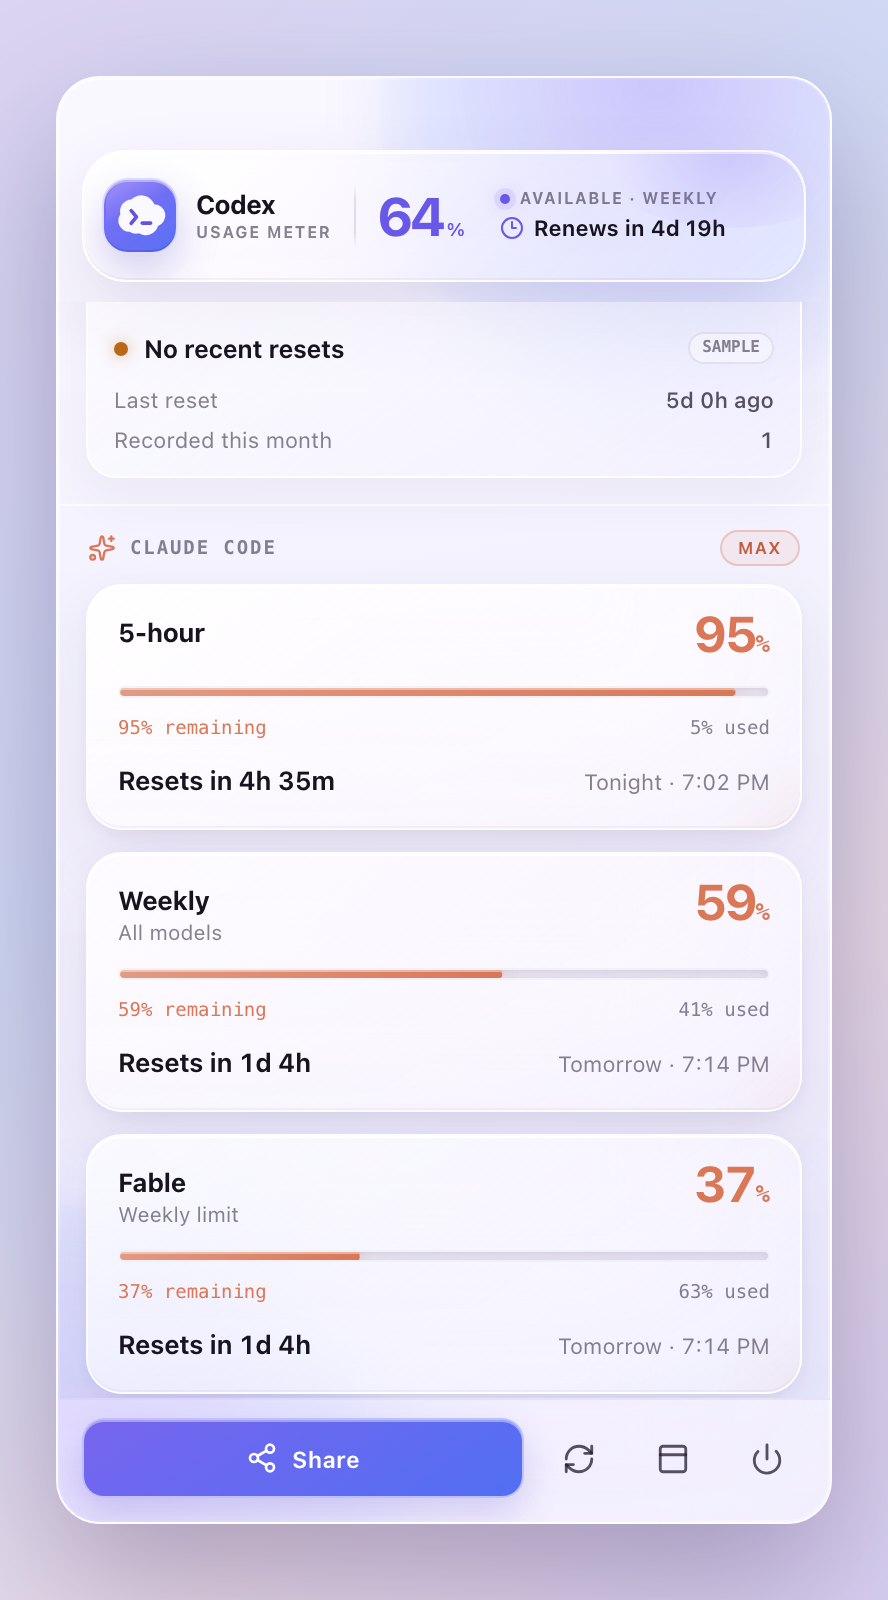
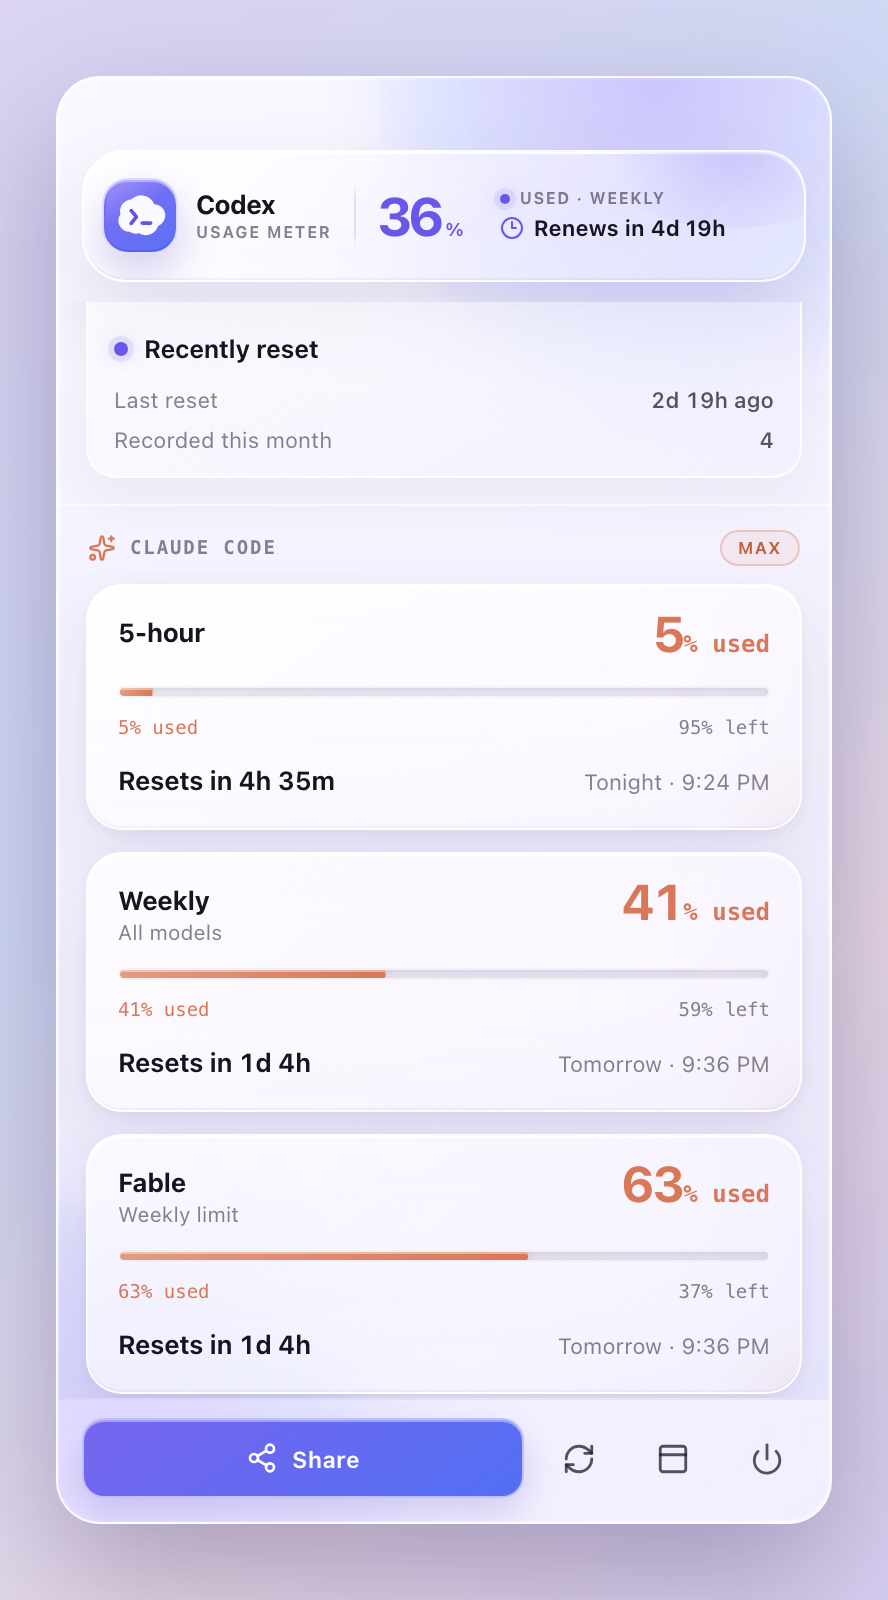
Show percentages as used, matching Codex and Claude Code conventions
Every surface (tray titles, popover tiles, header summary, notch, share
card, edge meter) now reports percent USED instead of percent remaining,
so UsageBar never disagrees with the numbers the tools themselves show.
Progress bars fill with consumption accordingly.

The Claude tray also stops pinning to the model-scoped weekly window
(e.g. Fable), which is almost always the most-used and drowned out the
account-wide picture: scoped windows are now popover-only via an
excludeFromTray marker, and the menu bar tracks the most-used
account-wide window. Also fixes stale Codex Meter branding in the share
card and refreshes the README screenshots.

diff --git a/src/features/share-card/shareCard.ts b/src/features/share-card/shareCard.ts
@@ -22,10 +22,10 @@ function traceRoundedRect(
   context.closePath();
 }
 
-function quipFor(remaining: number): string {
-  if (remaining <= 5) return "Effectively out of quota.";
-  if (remaining <= 35) return "Running low.";
-  if (remaining >= 90) return "Freshly reset.";
+function quipFor(used: number): string {
+  if (used >= 95) return "Effectively out of quota.";
+  if (used >= 65) return "Running low.";
+  if (used <= 10) return "Freshly reset.";
   return "Holding steady.";
 }
 
@@ -39,8 +39,8 @@ export async function generateShareCard(bucket: RateLimitBucket): Promise<{
   const context = canvas.getContext("2d");
   if (!context) throw new Error("Canvas is unavailable");
 
-  const remaining = Math.round(bucket.remainingPercent);
-  const accent = remaining <= 10 ? "#ff453a" : remaining <= 35 ? "#ff9f0a" : "#30d158";
+  const used = Math.round(bucket.usedPercent);
+  const accent = used >= 90 ? "#ff453a" : used >= 65 ? "#ff9f0a" : "#30d158";
 
   // Ambient backdrop
   const backdrop = context.createLinearGradient(0, 0, 0, HEIGHT);
@@ -83,7 +83,7 @@ export async function generateShareCard(bucket: RateLimitBucket): Promise<{
   // Wordmark
   context.fillStyle = "rgba(245, 245, 247, 0.55)";
   context.font = "600 23px ui-monospace, SFMono-Regular, Menlo, monospace";
-  context.fillText("CODEX METER", left, 130);
+  context.fillText("USAGEBAR", left, 130);
 
   // Big number with a soft glow
   context.save();
@@ -91,18 +91,18 @@ export async function generateShareCard(bucket: RateLimitBucket): Promise<{
   context.shadowBlur = 64;
   context.fillStyle = accent;
   context.font = "700 188px -apple-system, BlinkMacSystemFont, sans-serif";
-  context.fillText(`${remaining}%`, left - 8, 330);
+  context.fillText(`${used}%`, left - 8, 330);
   context.restore();
   context.fillStyle = "#f5f5f7";
   context.font = "650 32px -apple-system, BlinkMacSystemFont, sans-serif";
-  context.fillText(`${windowDurationLabel(bucket.windowDurationMins).toUpperCase()} QUOTA LEFT`, left, 386);
+  context.fillText(`${windowDurationLabel(bucket.windowDurationMins).toUpperCase()} QUOTA USED`, left, 386);
 
   // Glass capsule progress bar
   const barWidth = WIDTH - 256;
   traceRoundedRect(context, left, 428, barWidth, 22, 11);
   context.fillStyle = "rgba(255, 255, 255, 0.09)";
   context.fill();
-  const fillWidth = Math.max(22, barWidth * (bucket.remainingPercent / 100));
+  const fillWidth = Math.max(22, barWidth * (bucket.usedPercent / 100));
   traceRoundedRect(context, left, 428, fillWidth, 22, 11);
   const fillGradient = context.createLinearGradient(0, 428, 0, 450);
   fillGradient.addColorStop(0, `${accent}f2`);
@@ -116,12 +116,12 @@ export async function generateShareCard(bucket: RateLimitBucket): Promise<{
   context.fillText(formatCountdown(bucket.resetsAt).replace("Resets", "resets"), left, 512);
   context.fillStyle = "#f5f5f7";
   context.font = "550 24px -apple-system, BlinkMacSystemFont, sans-serif";
-  context.fillText(quipFor(remaining), left, 566);
+  context.fillText(quipFor(used), left, 566);
 
   context.textAlign = "right";
   context.fillStyle = "rgba(235, 235, 245, 0.42)";
   context.font = "500 19px ui-monospace, SFMono-Regular, Menlo, monospace";
-  context.fillText("codex meter · local only", WIDTH - 128, 566);
+  context.fillText("usagebar · local only", WIDTH - 128, 566);
   context.textAlign = "left";
 
   const blob = await new Promise<Blob>((resolve, reject) =>

diff --git a/src/notch/NotchSurface.tsx b/src/notch/NotchSurface.tsx
@@ -42,16 +42,16 @@ function presentationFor(
   }
   const updatedMs = updatedAt ? (updatedAt < 1_000_000_000_000 ? updatedAt * 1000 : updatedAt) : 0;
   const ageMs = updatedMs ? Math.max(0, now - updatedMs) : Number.POSITIVE_INFINITY;
-  const remaining = Math.round(bucket.remainingPercent);
+  const used = Math.round(bucket.usedPercent);
   if (connection !== "connected") {
     const age = Number.isFinite(ageMs) ? formatLeadTime(ageMs) : "unknown";
     return ageMs >= 30 * 60_000
       ? { kind: "offline", compact: "Usage unavailable", title: "Codex is offline", detail: `Last updated ${age} ago.` }
-      : { kind: "offline", compact: `${remaining}% · offline`, title: "Last known Codex usage", detail: `Updated ${age} ago.` };
+      : { kind: "offline", compact: `${used}% · offline`, title: "Last known Codex usage", detail: `Updated ${age} ago.` };
   }
   if (ageMs > 10 * 60_000) {
     const age = formatLeadTime(ageMs);
-    return { kind: "stale", compact: `${remaining}% · updated ${age} ago`, title: "Codex usage may be stale", detail: `Last updated ${age} ago.` };
+    return { kind: "stale", compact: `${used}% · updated ${age} ago`, title: "Codex usage may be stale", detail: `Last updated ${age} ago.` };
   }
   const resetMs = bucket.resetsAt ? bucket.resetsAt * 1000 : 0;
   const lead = resetMs > now ? formatLeadTime(resetMs - now) : "soon";
@@ -59,9 +59,9 @@ function presentationFor(
     return { kind: "reached", compact: `Limit reached · ${lead}`, title: "Codex limit reached", detail: `Renews in ${lead}.` };
   }
   return {
-    kind: remaining <= 20 ? "low" : "normal",
-    compact: `${remaining}% · ${lead}`,
-    title: `${windowDurationLabel(bucket.windowDurationMins)} · ${remaining}% left`,
+    kind: bucket.remainingPercent <= 20 ? "low" : "normal",
+    compact: `${used}% · ${lead}`,
+    title: `${windowDurationLabel(bucket.windowDurationMins)} · ${used}% used`,
     detail: resetMs ? `Renews in ${lead}.` : "Renewal time unavailable.",
   };
 }
@@ -91,9 +91,9 @@ export function NotchSurface() {
     [buckets],
   );
   const presentation = presentationFor(bucket, events, state.connection, state.updatedAt, now);
-  const remaining = bucket?.remainingPercent ?? 0;
+  const used = bucket?.usedPercent ?? 0;
   const label = bucket
-    ? `Codex usage, ${Math.round(remaining)} percent remaining in the ${windowDurationLabel(bucket.windowDurationMins)} window. ${presentation.detail}`
+    ? `Codex usage, ${Math.round(used)} percent of the ${windowDurationLabel(bucket.windowDurationMins)} window used. ${presentation.detail}`
     : presentation.title;
 
   const setNativeExpanded = (next: boolean) => {
@@ -124,7 +124,7 @@ export function NotchSurface() {
           <MeterMark />
           <span className="notch-copy">
             <strong>{presentation.compact}</strong>
-            <span className="notch-track" aria-hidden="true"><i style={{ transform: `scaleX(${remaining / 100})` }} /></span>
+            <span className="notch-track" aria-hidden="true"><i style={{ transform: `scaleX(${used / 100})` }} /></span>
           </span>
           {presentation.kind === "incoming" || presentation.kind === "reached" ? <AlertTriangle size={14} aria-hidden="true" /> : <Clock3 size={13} aria-hidden="true" />}
         </span>

diff --git a/src/components/QuotaSection.tsx b/src/components/QuotaSection.tsx
@@ -7,9 +7,11 @@ import {
 } from "../lib/rateLimits";
 
 export function QuotaSection({ bucket, now }: { bucket: RateLimitBucket; now: number }) {
+  const used = Math.round(bucket.usedPercent);
   const remaining = Math.round(bucket.remainingPercent);
   const tone = bucket.reached || remaining <= 5 ? "danger" : remaining <= 30 ? "warning" : "healthy";
-  const style = { "--progress": bucket.remainingPercent / 100 } as CSSProperties;
+  // Percentages are shown as USED, matching Codex and Claude Code themselves.
+  const style = { "--progress": bucket.usedPercent / 100 } as CSSProperties;
   const heading = bucket.windowLabel ?? windowDurationLabel(bucket.windowDurationMins);
 
   return (
@@ -19,21 +21,21 @@ export function QuotaSection({ bucket, now }: { bucket: RateLimitBucket; now: nu
           <h2>{heading}</h2>
           {bucket.limitName ? <p>{bucket.limitName}</p> : null}
         </div>
-        <span className="quota-number"><strong>{remaining}</strong>%</span>
+        <span className="quota-number"><strong>{used}</strong>% used</span>
       </div>
       <div
         className="progress-track"
         role="progressbar"
-        aria-label={`${remaining} percent remaining`}
+        aria-label={`${used} percent used`}
         aria-valuemin={0}
         aria-valuemax={100}
-        aria-valuenow={remaining}
+        aria-valuenow={used}
       >
         <span className="progress-fill" style={style} />
       </div>
       <div className="quota-caption">
-        <span>{bucket.reached ? "Limit reached" : `${remaining}% remaining`}</span>
-        <span>{Math.round(bucket.usedPercent)}% used</span>
+        <span>{bucket.reached ? "Limit reached" : `${used}% used`}</span>
+        <span>{remaining}% left</span>
       </div>
       <div className="reset-row">
         <span className="reset-countdown">{formatCountdown(bucket.resetsAt, now)}</span>

diff --git a/src/App.tsx b/src/App.tsx
@@ -76,10 +76,10 @@ export default function App() {
               data-tauri-drag-region
             >
               <div className="available-value" data-tauri-drag-region>
-                <strong data-tauri-drag-region>{Math.round(mostCooked.remainingPercent)}</strong><span data-tauri-drag-region>%</span>
+                <strong data-tauri-drag-region>{Math.round(mostCooked.usedPercent)}</strong><span data-tauri-drag-region>%</span>
               </div>
               <div className="status-copy" data-tauri-drag-region>
-                <span className="status-eyebrow" data-tauri-drag-region><i aria-hidden="true" />Available · {windowDurationLabel(mostCooked.windowDurationMins)}</span>
+                <span className="status-eyebrow" data-tauri-drag-region><i aria-hidden="true" />Used · {windowDurationLabel(mostCooked.windowDurationMins)}</span>
                 <strong data-tauri-drag-region><Clock3 size={12} strokeWidth={2} aria-hidden="true" />{headerResetText(mostCooked, now)}</strong>
               </div>
             </div>

diff --git a/src/components/EdgeMeter.tsx b/src/components/EdgeMeter.tsx
@@ -9,19 +9,19 @@ export function meterTone(bucket: RateLimitBucket): "healthy" | "warning" | "dan
 
 /** Ultra-thin luminous quota strip flush to the window's top edge. */
 export function EdgeMeter({ bucket }: { bucket: RateLimitBucket }) {
-  const remaining = Math.round(bucket.remainingPercent);
+  const used = Math.round(bucket.usedPercent);
   return (
     <div
       className={`edge-meter tone-${meterTone(bucket)}`}
       role="progressbar"
-      aria-label={`${remaining} percent of the ${windowDurationLabel(bucket.windowDurationMins)} window remaining`}
+      aria-label={`${used} percent of the ${windowDurationLabel(bucket.windowDurationMins)} window used`}
       aria-valuemin={0}
       aria-valuemax={100}
-      aria-valuenow={remaining}
+      aria-valuenow={used}
     >
       <span
         className="edge-meter-fill"
-        style={{ "--progress": bucket.remainingPercent / 100 } as CSSProperties}
+        style={{ "--progress": bucket.usedPercent / 100 } as CSSProperties}
       />
     </div>
   );

diff --git a/src-tauri/src/tray.rs b/src-tauri/src/tray.rs
@@ -302,7 +302,7 @@ fn distance_to_segment(x: f64, y: f64, x0: f64, y0: f64, x1: f64, y1: f64) -> f6
 
 #[derive(Debug, Clone, Copy, PartialEq)]
 pub struct CookedWindow {
-    pub remaining: f64,
+    pub used_percent: f64,
     pub resets_at: Option<u64>,
 }
 
@@ -310,21 +310,29 @@ pub fn most_cooked_window(payload: Option<&Value>) -> Option<CookedWindow> {
     fn visit(value: &Value, best: &mut Option<CookedWindow>) {
         match value {
             Value::Object(map) => {
-                if let Some(used) = map.get("usedPercent").and_then(Value::as_f64) {
-                    let remaining = ((100.0 - used).clamp(0.0, 100.0)) / 100.0;
-                    let resets_at = map
-                        .get("resetsAt")
-                        .and_then(Value::as_f64)
-                        .map(|value| value.max(0.0) as u64);
-                    let replace = match best {
-                        Some(current) => remaining < current.remaining,
-                        None => true,
-                    };
-                    if replace {
-                        *best = Some(CookedWindow {
-                            remaining,
-                            resets_at,
-                        });
+                // Windows can opt out of the tray (e.g. Claude's model-scoped
+                // weekly limits) while still appearing in the popover.
+                let excluded = map
+                    .get("excludeFromTray")
+                    .and_then(Value::as_bool)
+                    .unwrap_or(false);
+                if !excluded {
+                    if let Some(used) = map.get("usedPercent").and_then(Value::as_f64) {
+                        let used_percent = used.clamp(0.0, 100.0);
+                        let resets_at = map
+                            .get("resetsAt")
+                            .and_then(Value::as_f64)
+                            .map(|value| value.max(0.0) as u64);
+                        let replace = match best {
+                            Some(current) => used_percent > current.used_percent,
+                            None => true,
+                        };
+                        if replace {
+                            *best = Some(CookedWindow {
+                                used_percent,
+                                resets_at,
+                            });
+                        }
                     }
                 }
                 for child in map.values() {
@@ -344,16 +352,18 @@ pub fn most_cooked_window(payload: Option<&Value>) -> Option<CookedWindow> {
     best
 }
 
+/// Titles show percent USED, mirroring how Codex and Claude Code both report
+/// usage, so the menu bar never disagrees with the tools themselves.
 pub fn tray_title(
-    remaining: Option<f64>,
+    used_percent: Option<f64>,
     resets_at: Option<u64>,
     now_unix: u64,
     compact: bool,
 ) -> String {
-    let Some(fraction) = remaining else {
+    let Some(used) = used_percent else {
         return String::new();
     };
-    let percent = (fraction.clamp(0.0, 1.0) * 100.0).round() as u32;
+    let percent = used.clamp(0.0, 100.0).round() as u32;
     match resets_at {
         Some(target) if !compact && target > now_unix => {
             format!("{percent}% · {}", format_countdown(target - now_unix))
@@ -382,16 +392,19 @@ mod tests {
     use super::*;
 
     #[test]
-    fn finds_lowest_remaining_window_with_reset_time() {
+    fn finds_most_used_window_and_skips_tray_excluded_ones() {
         let payload = serde_json::json!({
             "rateLimits": { "primary": { "usedPercent": 20, "resetsAt": 1_000 }, "secondary": null },
-            "rateLimitsByLimitId": { "other": { "primary": { "usedPercent": 82, "resetsAt": 2_000 } } }
+            "rateLimitsByLimitId": {
+                "other": { "primary": { "usedPercent": 82, "resetsAt": 2_000 } },
+                "scoped": { "secondary": { "usedPercent": 95, "resetsAt": 3_000, "excludeFromTray": true } }
+            }
         });
         let cooked = most_cooked_window(Some(&payload));
         assert_eq!(
             cooked,
             Some(CookedWindow {
-                remaining: 0.18,
+                used_percent: 82.0,
                 resets_at: Some(2_000)
             })
         );
@@ -399,18 +412,18 @@ mod tests {
     }
 
     #[test]
-    fn title_shows_percent_and_countdown() {
-        assert_eq!(tray_title(Some(0.42), Some(4_661), 1_000, false), "42% · 1:01:01");
-        assert_eq!(tray_title(Some(0.42), Some(1_545), 1_000, false), "42% · 9:05");
-        assert_eq!(tray_title(Some(0.42), Some(200_000), 1_000, false), "42% · 2d 7h");
-        assert_eq!(tray_title(Some(0.42), None, 1_000, false), "42%");
-        assert_eq!(tray_title(Some(0.42), Some(900), 1_000, false), "42%");
+    fn title_shows_used_percent_and_countdown() {
+        assert_eq!(tray_title(Some(42.0), Some(4_661), 1_000, false), "42% · 1:01:01");
+        assert_eq!(tray_title(Some(42.0), Some(1_545), 1_000, false), "42% · 9:05");
+        assert_eq!(tray_title(Some(42.0), Some(200_000), 1_000, false), "42% · 2d 7h");
+        assert_eq!(tray_title(Some(42.0), None, 1_000, false), "42%");
+        assert_eq!(tray_title(Some(42.0), Some(900), 1_000, false), "42%");
         assert_eq!(tray_title(None, Some(4_661), 1_000, false), "");
     }
 
     #[test]
     fn compact_title_drops_the_countdown() {
-        assert_eq!(tray_title(Some(0.42), Some(4_661), 1_000, true), "42%");
+        assert_eq!(tray_title(Some(42.0), Some(4_661), 1_000, true), "42%");
         assert_eq!(tray_title(None, Some(4_661), 1_000, true), "");
     }
 

diff --git a/src-tauri/src/claude.rs b/src-tauri/src/claude.rs
@@ -212,7 +212,7 @@ impl ClaudeManager {
             .map(|prefs| prefs.get().compact_tray)
             .unwrap_or(false);
         let title = tray_title(
-            cooked.map(|window| window.remaining),
+            cooked.map(|window| window.used_percent),
             cooked.and_then(|window| window.resets_at),
             now_unix_millis() / 1_000,
             compact,
@@ -407,10 +407,16 @@ fn normalize_limit_entry(limit: &Value) -> Option<(String, Value)> {
             Value::from(severity.unwrap_or("limit_reached")),
         );
     }
-    snapshot.insert(
-        window_kind.into(),
-        window_snapshot(used, duration, parse_reset_timestamp(limit.get("resets_at"))),
-    );
+    let mut window = window_snapshot(used, duration, parse_reset_timestamp(limit.get("resets_at")));
+    if scope_name.is_some() {
+        // Model-scoped windows stay out of the menu-bar title: the tray tracks
+        // the account-wide windows so it is not permanently pinned to whatever
+        // single model the user runs most.
+        if let Value::Object(map) = &mut window {
+            map.insert("excludeFromTray".into(), Value::Bool(true));
+        }
+    }
+    snapshot.insert(window_kind.into(), window);
     Some((id, Value::Object(snapshot)))
 }
 
@@ -494,10 +500,12 @@ mod tests {
         assert_eq!(scoped.pointer("/secondary/usedPercent"), Some(&json!(63.0)));
         assert_eq!(scoped.get("windowLabel"), Some(&json!("Fable")));
         assert_eq!(scoped.get("limitName"), Some(&json!("Weekly limit")));
+        assert_eq!(scoped.pointer("/secondary/excludeFromTray"), Some(&json!(true)));
 
-        // The tray picks the scoped weekly window because it is the most cooked.
+        // The tray skips the model-scoped window and reports the most-used
+        // account-wide window instead (weekly at 41%).
         let cooked = most_cooked_window(Some(&normalized)).expect("cooked window");
-        assert!((cooked.remaining - 0.37).abs() < 1e-9);
+        assert!((cooked.used_percent - 41.0).abs() < 1e-9);
     }
 
     #[test]

diff --git a/src-tauri/src/codex/process.rs b/src-tauri/src/codex/process.rs
@@ -364,14 +364,14 @@ impl CodexManager {
             return;
         };
         let cooked = most_cooked_window(state.rate_limits.as_ref());
-        let remaining = cooked.map(|window| window.remaining);
+        let used = cooked.map(|window| window.used_percent);
         let compact = self
             .app
             .try_state::<crate::prefs::PrefsStore>()
             .map(|prefs| prefs.get().compact_tray)
             .unwrap_or(false);
         let title = tray_title(
-            remaining,
+            used,
             cooked.and_then(|window| window.resets_at),
             now_unix_seconds(),
             compact,

diff --git a/README.md b/README.md
@@ -4,7 +4,7 @@
 
 UsageBar is a small, local-first macOS menu-bar app for seeing current AI-coding quota windows, how much remains, and exactly when each window resets. Codex data comes from your existing Codex login through the official Codex App Server—no OpenAI API key and no credential scraping. If Claude Code is installed, a second meter shows its 5-hour and weekly windows too.
 
-The menu bar shows one live meter per provider: a tiny provider mark plus `42% · 1:25:49`-style remaining/quota countdown for its most-cooked window. The popover is built with a native macOS glass (vibrancy) look, and Tibo Watch watches [@thsottiaux](https://x.com/thsottiaux) for surprise-reset announcements and sends a local notification when a fresh one lands.
+The menu bar shows one live meter per provider: a tiny provider mark plus a `42% · 1:25:49`-style **used-percentage** and reset countdown for the most-used account-wide window — the same "% used" convention Codex and Claude Code report themselves, so the numbers always agree. (Claude's per-model weekly windows appear in the popover but never hijack the menu-bar number.) The popover is built with a native macOS glass (vibrancy) look, and Tibo Watch watches [@thsottiaux](https://x.com/thsottiaux) for surprise-reset announcements and sends a local notification when a fresh one lands.
 
 | Codex meters & reset radar | Claude Code meters |
 | :---: | :---: |
